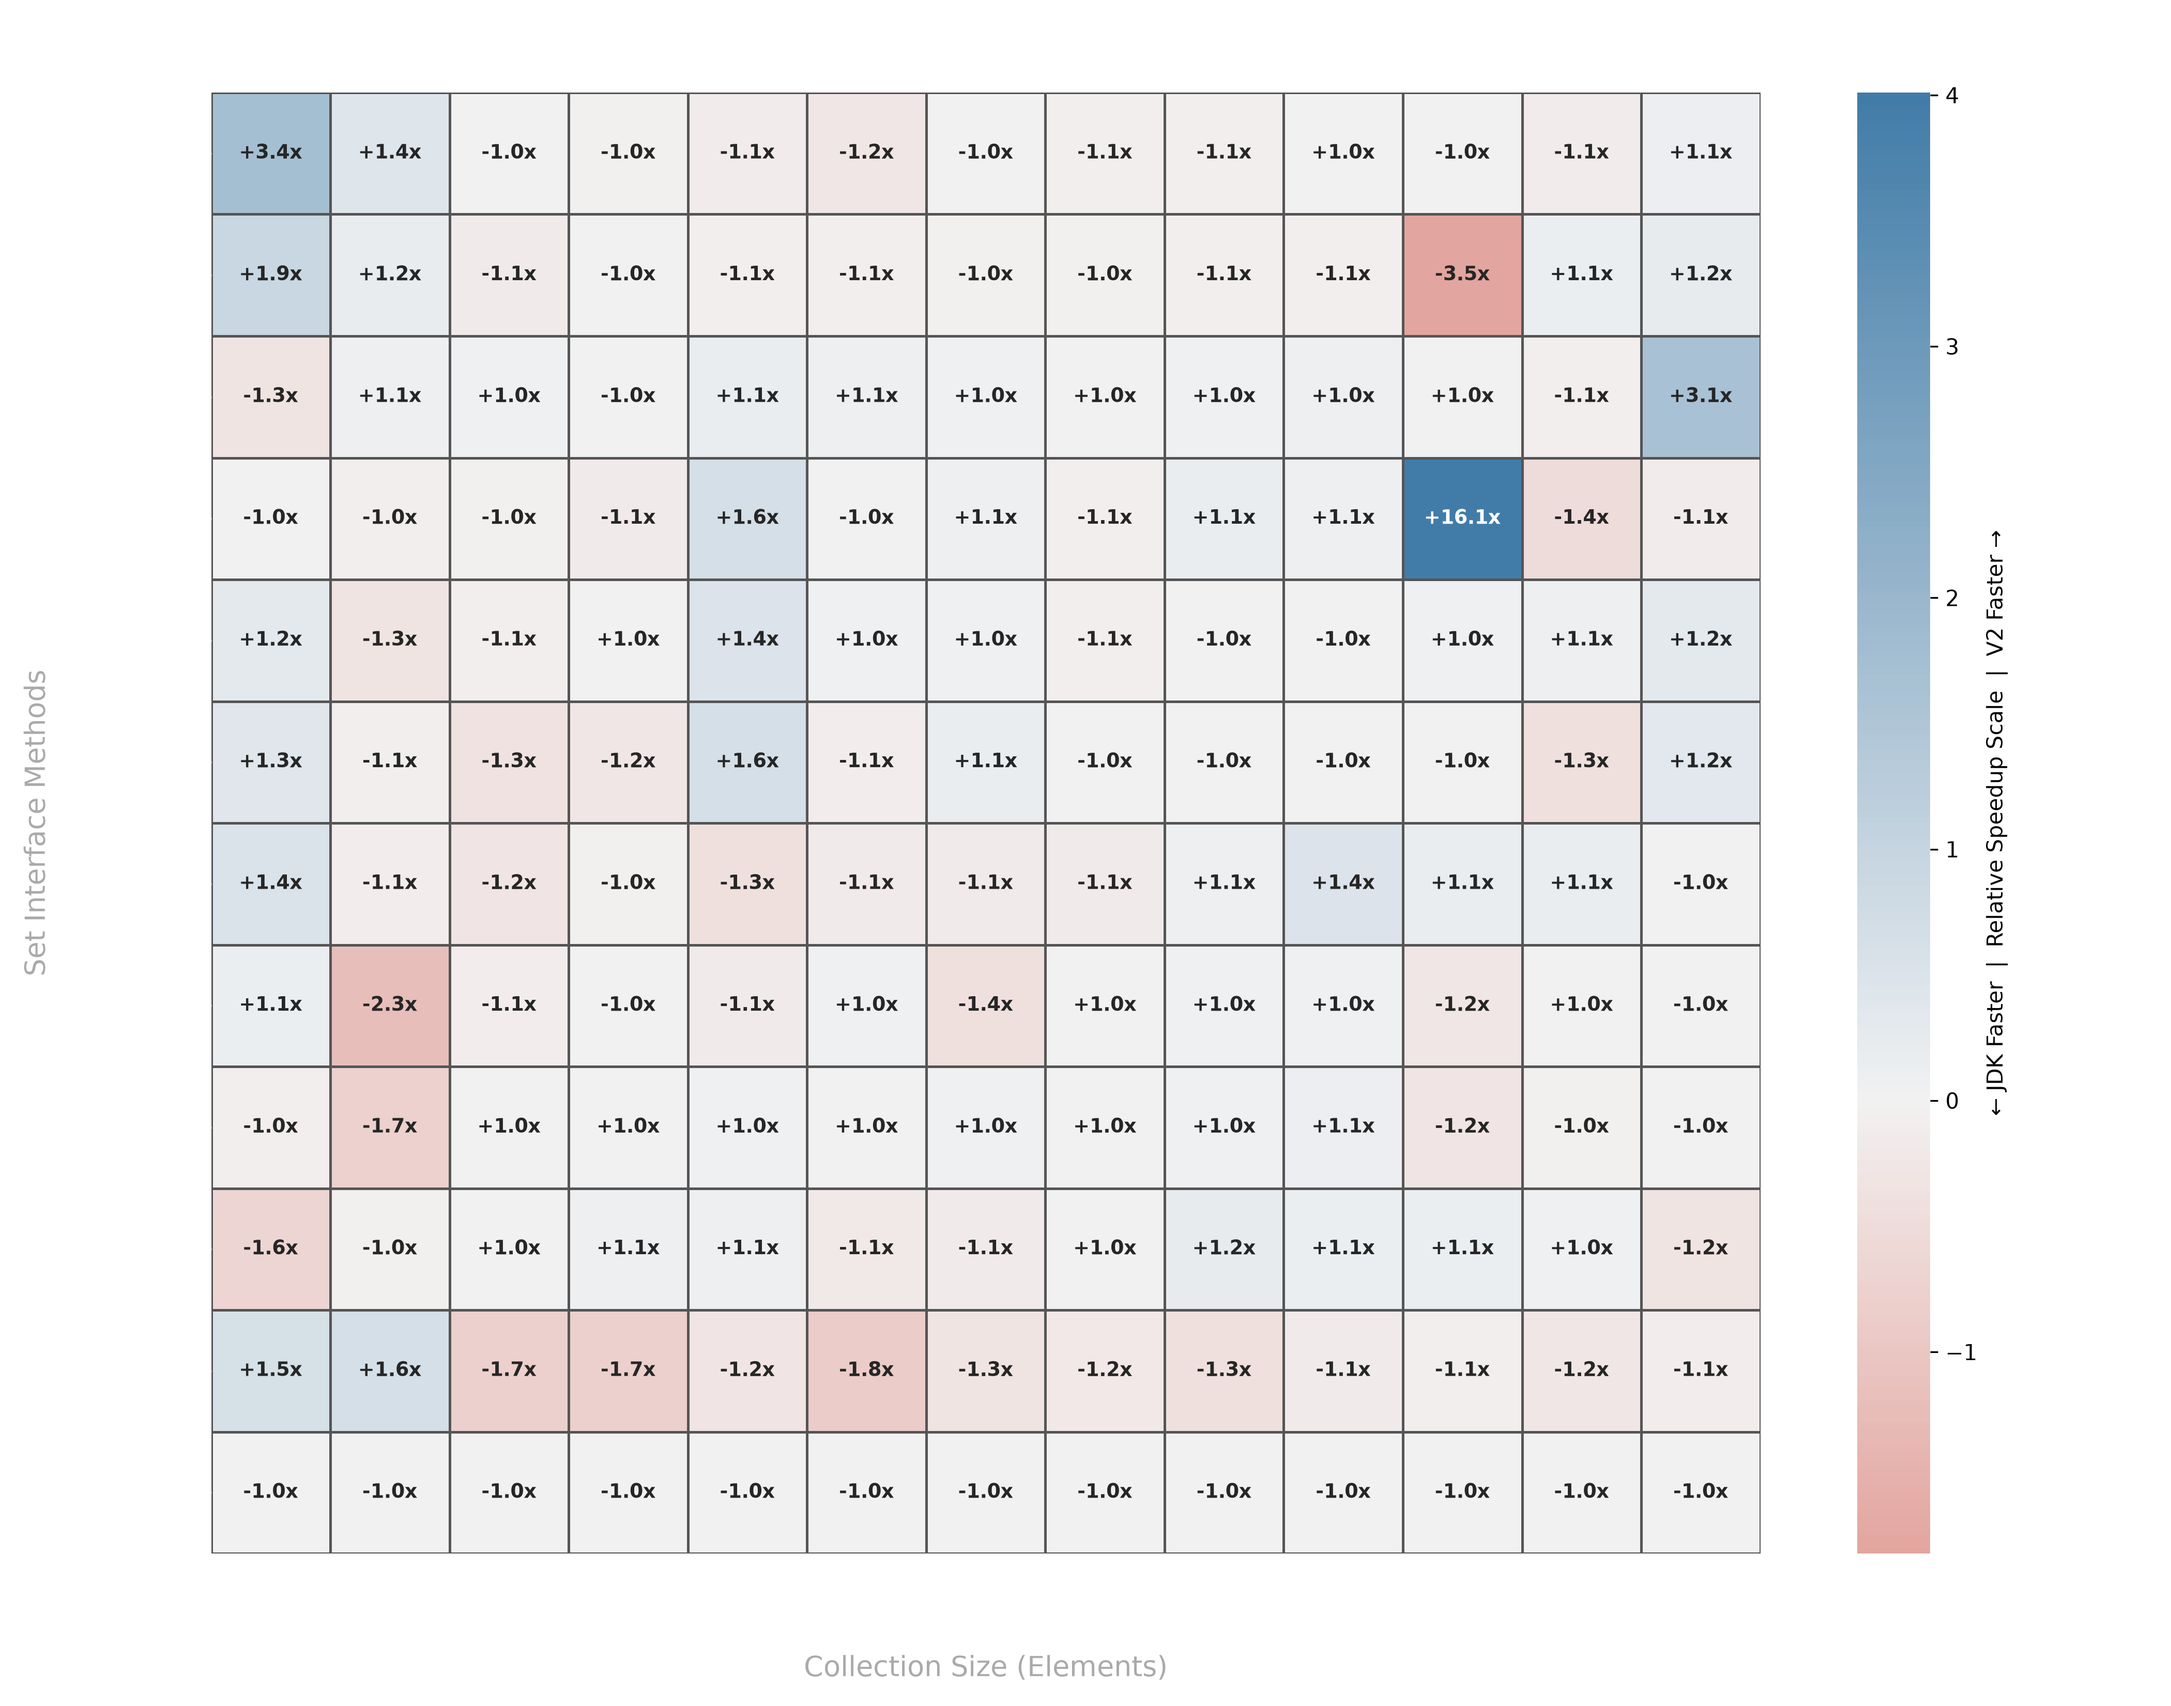
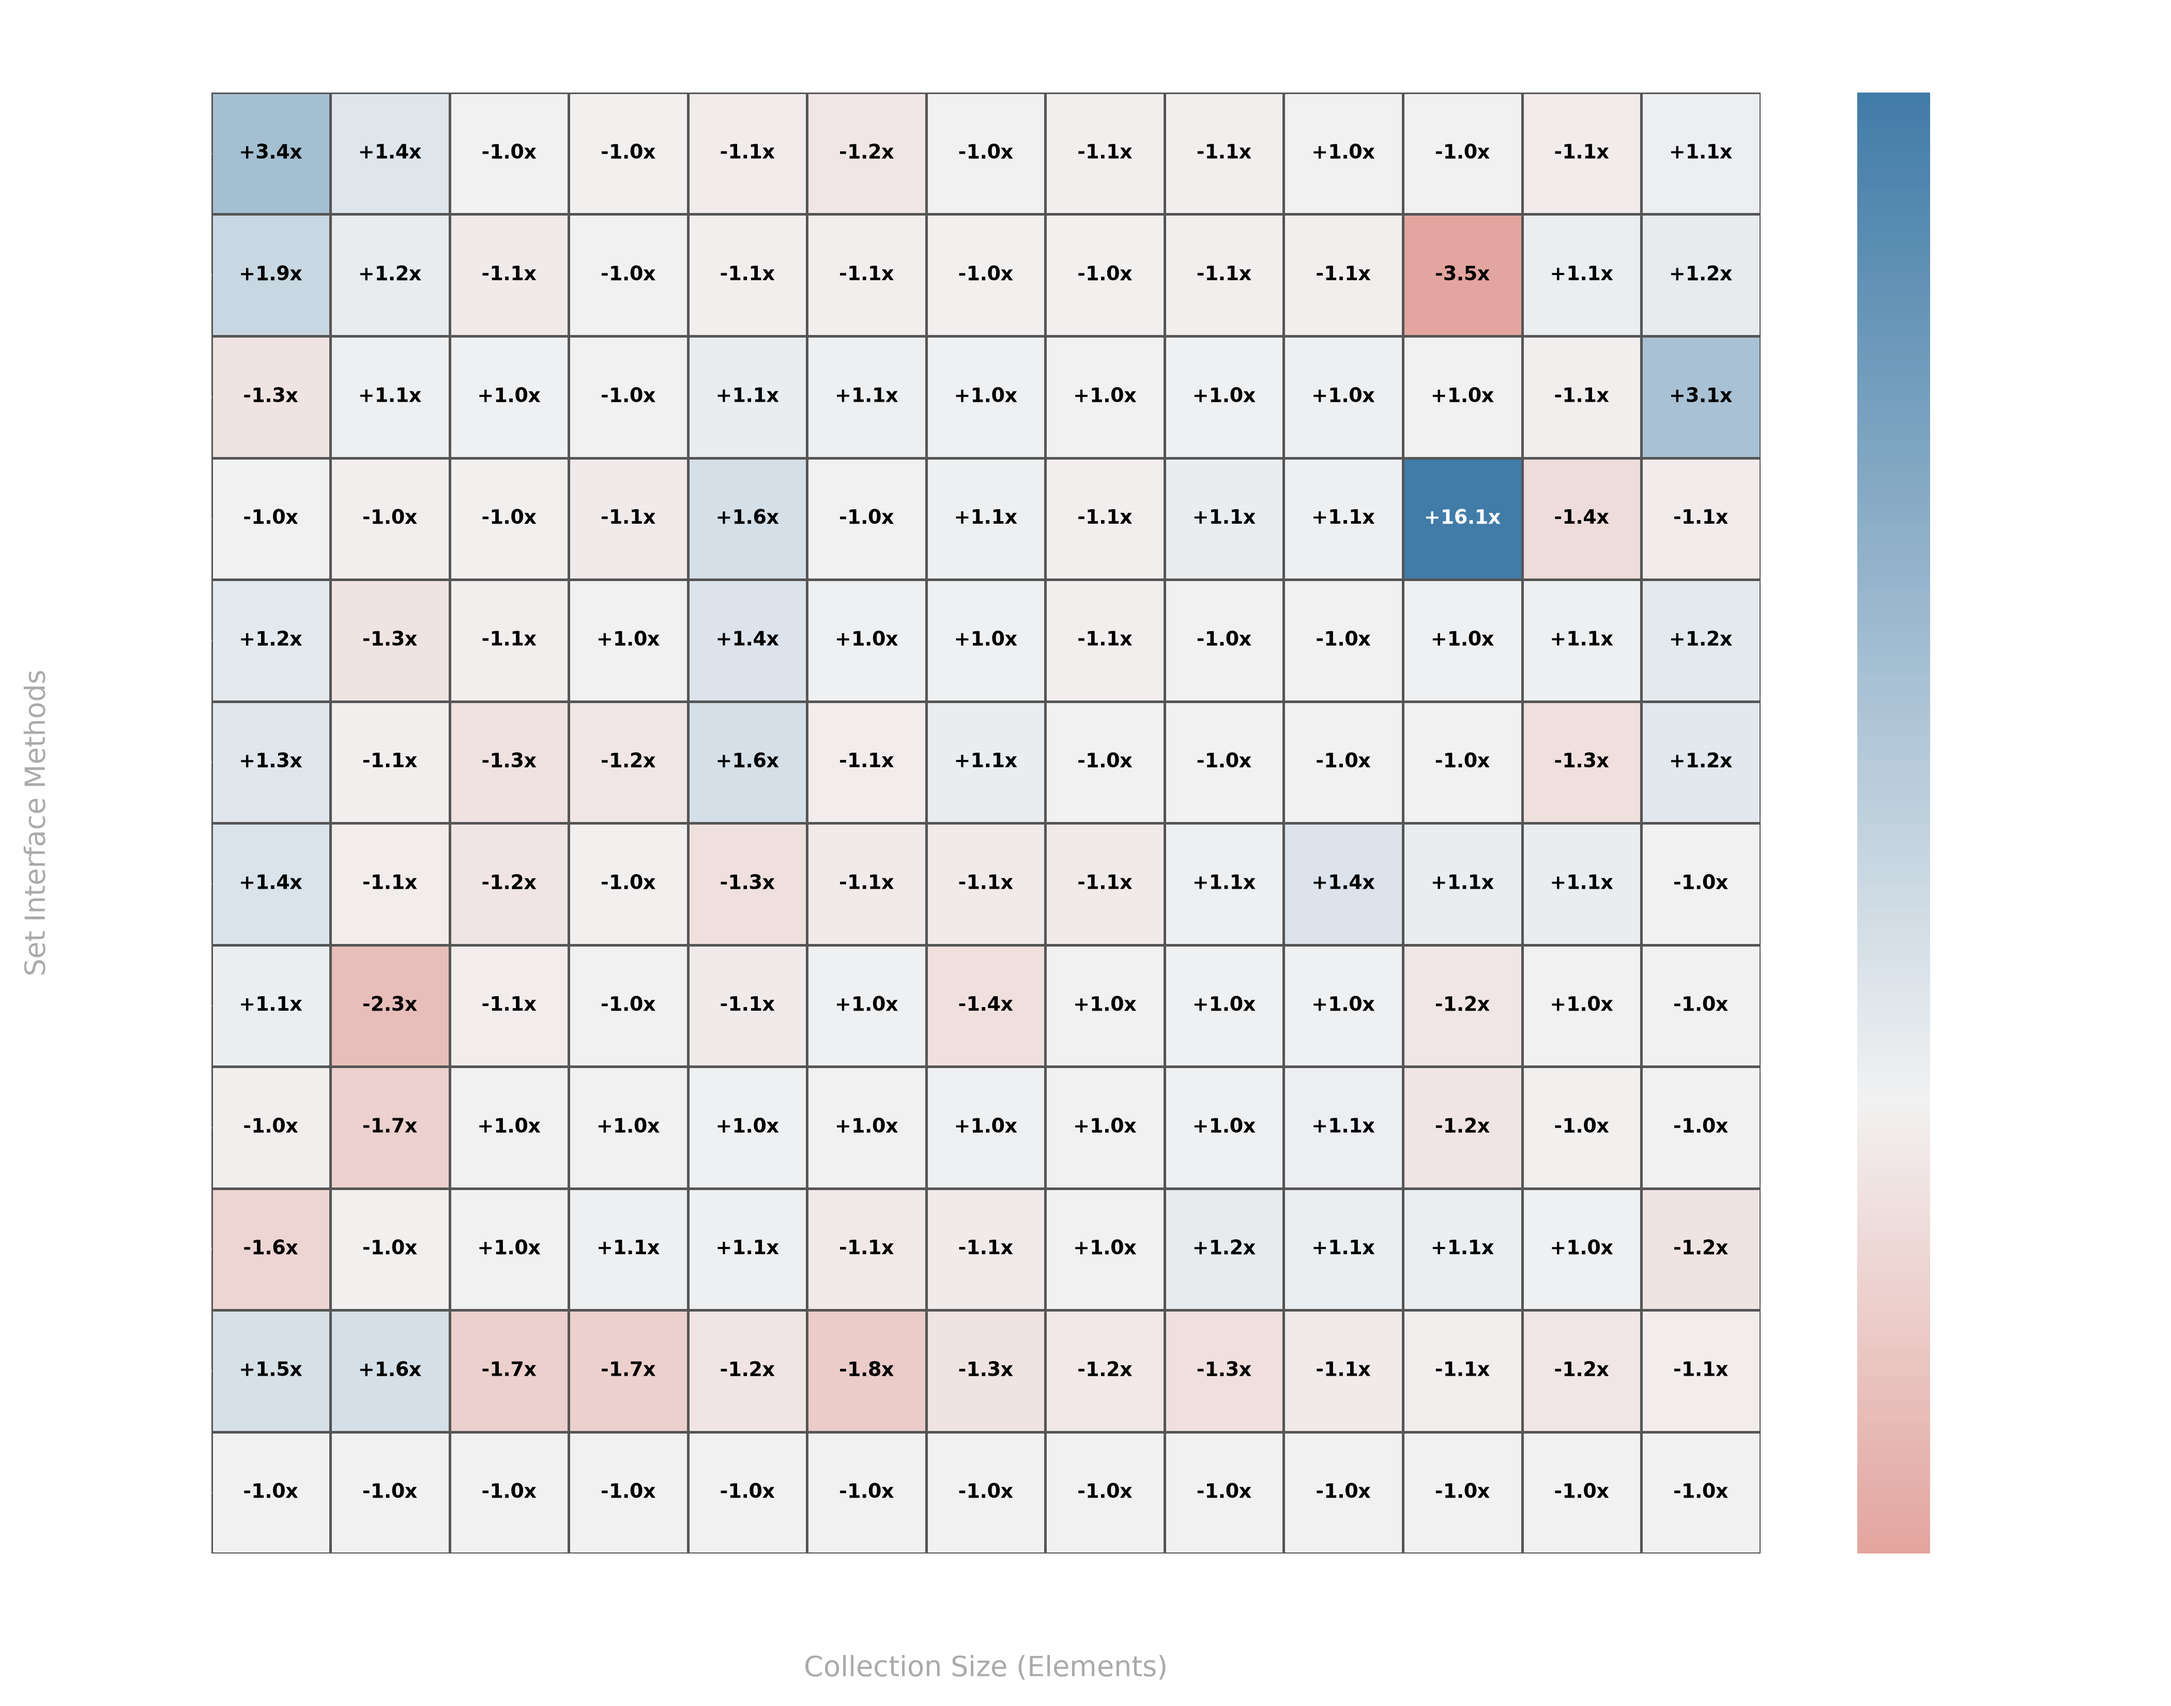
fixing heatmap

diff --git a/PerformanceTesting/V2_HashSet/heatmap.py b/PerformanceTesting/V2_HashSet/heatmap.py
@@ -12,7 +12,6 @@ custom_set_df['Size'] = pd.to_numeric(custom_set_df['Size'])
 hash_set_df['Size'] = pd.to_numeric(hash_set_df['Size'])
 
 # 2. Define the exact order and names matching your CSV columns
-# Note: 'Size.1' is likely a duplicate of 'Size', so we exclude it.
 ordered_methods = [
     'Add', 'AddAll', 'Clear', 'Contains', 'ContainsAll',
     'IsEmpty', 'Remove', 'RemoveAll', 'RetainAll',
@@ -58,20 +57,40 @@ df_heatmap.index = pd.Categorical(df_heatmap.index, categories=methods, ordered=
 df_heatmap = df_heatmap.sort_index()
 df_annot = df_annot.reindex(df_heatmap.index)
 
+# --- NEW: Build a dynamic text color matrix based on cell intensity ---
+# Cells with absolute log2 ratios further from the center get white text,
+# while cells closer to 0 (lighter backgrounds) get black text.
+color_matrix = np.empty(df_heatmap.shape, dtype=object)
+for i in range(df_heatmap.shape[0]):
+    for j in range(df_heatmap.shape[1]):
+        val = df_heatmap.iloc[i, j]
+        # Adjust the threshold (e.g., 2.5) depending on when the background becomes dark enough for white text
+        color_matrix[i, j] = '#ffffff' if abs(val) > 2.5 else '#000000'
+# ---------------------------------------------------------------------
+
 # 5. Render Heatmap
 fig, ax = plt.subplots(figsize=(14, 11), facecolor='none')
 ax.set_facecolor('none')
 
-sns.heatmap(df_heatmap,
-            annot=df_annot.values,
-            fmt="",
-            cmap=sns.diverging_palette(15, 240, as_cmap=True),
-            center=0,
-            ax=ax,
-            cbar_kws={'label': '← JDK Faster  |  Relative Speedup Scale  |  V2 Faster →'},
-            linewidths=0.8,
-            linecolor='#555555',
-            annot_kws={'size': 9, 'weight': 'bold'})
+heatmap = sns.heatmap(df_heatmap,
+                      annot=df_annot.values,
+                      fmt="",
+                      cmap=sns.diverging_palette(15, 240, as_cmap=True),
+                      center=0,
+                      ax=ax,
+                      cbar_kws={'label': '← JDK Faster  |  Relative Speedup Scale  |  V2 Faster →'},
+                      linewidths=0.8,
+                      linecolor='#555555',
+                      annot_kws={'size': 9, 'weight': 'bold'})
+
+# Apply individual text colors using the text objects inside the axes
+for t, color in zip(ax.texts, color_matrix.flatten()):
+    t.set_color(color)
+
+# Style the colorbar to match
+cbar = heatmap.collections[0].colorbar
+cbar.ax.yaxis.label.set_color('#ffffff')
+cbar.ax.tick_params(colors='#ffffff')
 
 # 6. Styling
 ax.set_title('V2 vs JDK HashSet Performance Speedup Matrix', color='#ffffff', fontsize=16, fontweight='bold', pad=20)
@@ -83,5 +102,5 @@ plt.xticks(rotation=45)
 plt.yticks(rotation=0)
 
 plt.tight_layout()
-plt.savefig('v2_hashset_performance_heatmap.png', dpi=300, transparent=True)
+plt.savefig('heatmap.png', dpi=300, transparent=True)
 plt.close()

diff --git a/README.md b/README.md
@@ -55,20 +55,20 @@ All methods implemented are identical to those found in the Java [Set](https://d
 
 Below performance is a comparison made at 65,536 operations per method.
 
-| Method      | HashSet (ns) | Custom Set V2 (ns) |   Winner    | Margin |
-|:------------|:-------------|:-------------------|:-----------:|:-------|
-| Add         | 94922        | 87398              |   **V2**    | 1.09×  |
-| AddAll      | 107375       | 112398             | **HashSet** | 1.05×  |
-| Clear       | 16769        | 15264              |   **V2**    | 1.10×  |
-| Contains    | 26           | 21                 |   **V2**    | 1.24×  |
-| ContainsAll | 60989        | 58433              |   **V2**    | 1.04×  |
-| IsEmpty     | 8            | 8                  |   **Tie**   | 1.00×  |
-| Remove      | 21           | 21                 |   **Tie**   | 1.00×  |
-| RemoveAll   | 1730896      | 1911580            | **HashSet** | 1.10×  |
-| RetainAll   | 1333035      | 1391203            | **HashSet** | 1.04×  |
-| Size        | 6            | 7                  | **HashSet** | 1.14×  |
-| ToArray     | 50461        | 52070              | **HashSet** | 1.03×  |
-| ToString    | 125984       | 148609             | **HashSet** | 1.18×  |
+| Method      | HashSet (ns) | Custom Set V2 (ns) |            Winner            | Margin |
+|:------------|:-------------|:-------------------|:----------------------------:|:-------|
+| Add         | 94922        | 87398              | **Statistically Equivalent** | 1.09×  |
+| AddAll      | 107375       | 112398             | **Statistically Equivalent** | 1.05×  |
+| Clear       | 16769        | 15264              | **Statistically Equivalent** | 1.10×  |
+| Contains    | 26           | 21                 |            **V2**            | 1.24×  |
+| ContainsAll | 60989        | 58433              | **Statistically Equivalent** | 1.04×  |
+| IsEmpty     | 8            | 8                  | **Statistically Equivalent** | 1.00×  |
+| Remove      | 21           | 21                 | **Statistically Equivalent** | 1.00×  |
+| RemoveAll   | 1730896      | 1911580            | **Statistically Equivalent** | 1.10×  |
+| RetainAll   | 1333035      | 1391203            | **Statistically Equivalent** | 1.04×  |
+| Size        | 6            | 7                  |         **HashSet**          | 1.14×  |
+| ToArray     | 50461        | 52070              | **Statistically Equivalent** | 1.03×  |
+| ToString    | 125984       | 148609             |         **HashSet**          | 1.18×  |
 
 # Performance Testing
 
